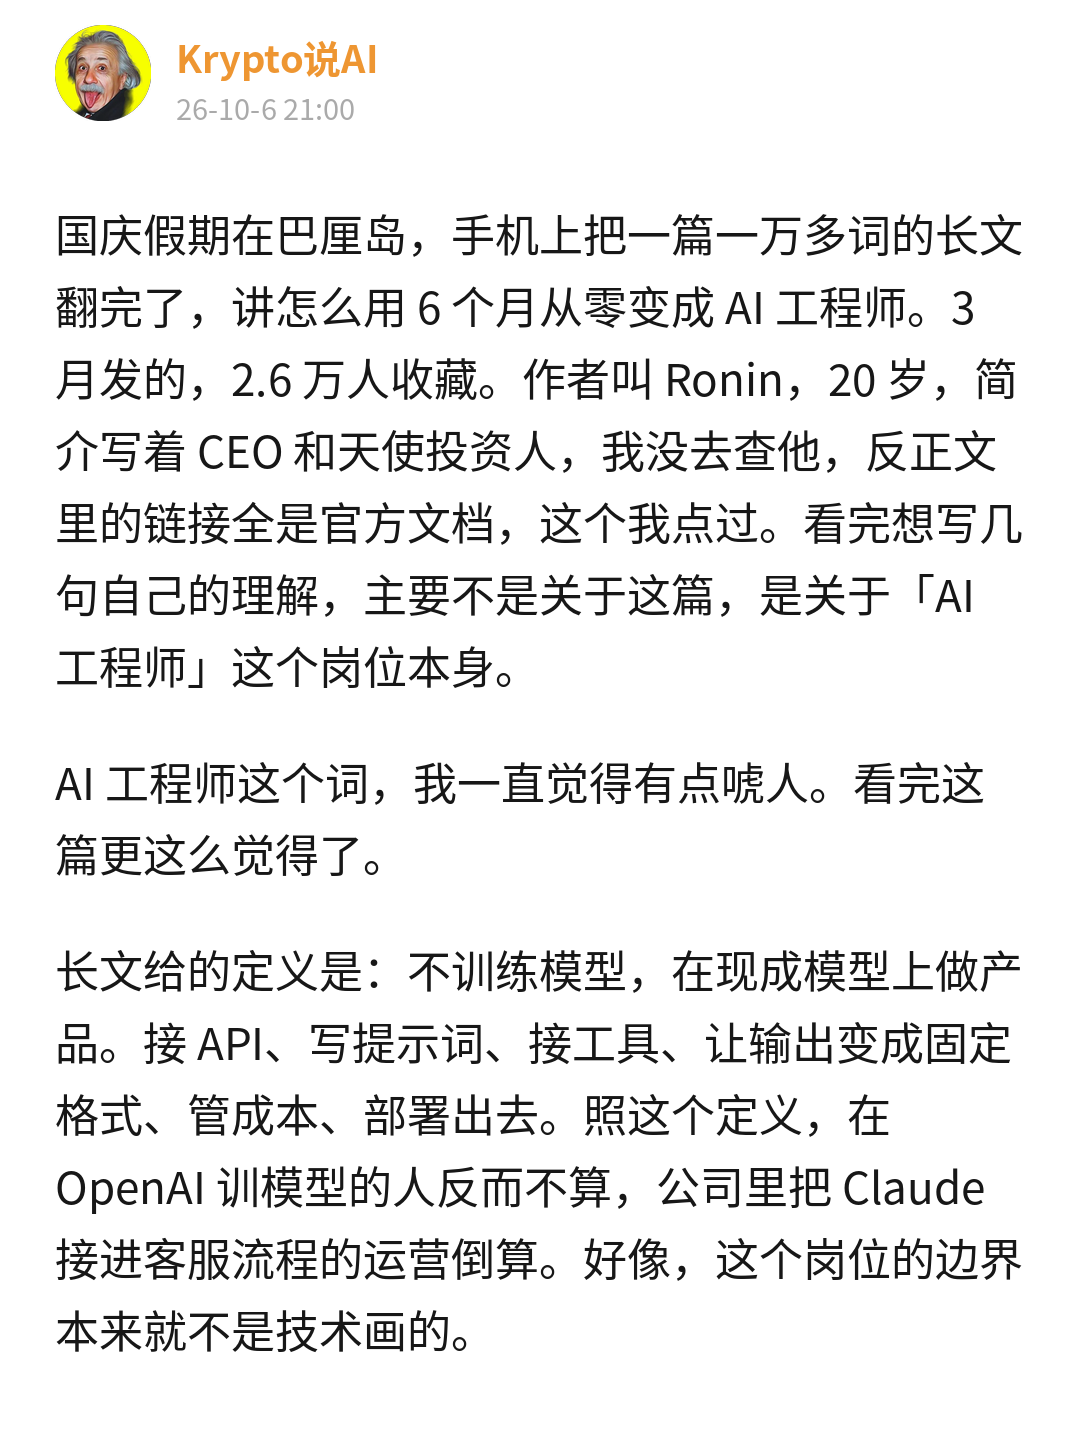
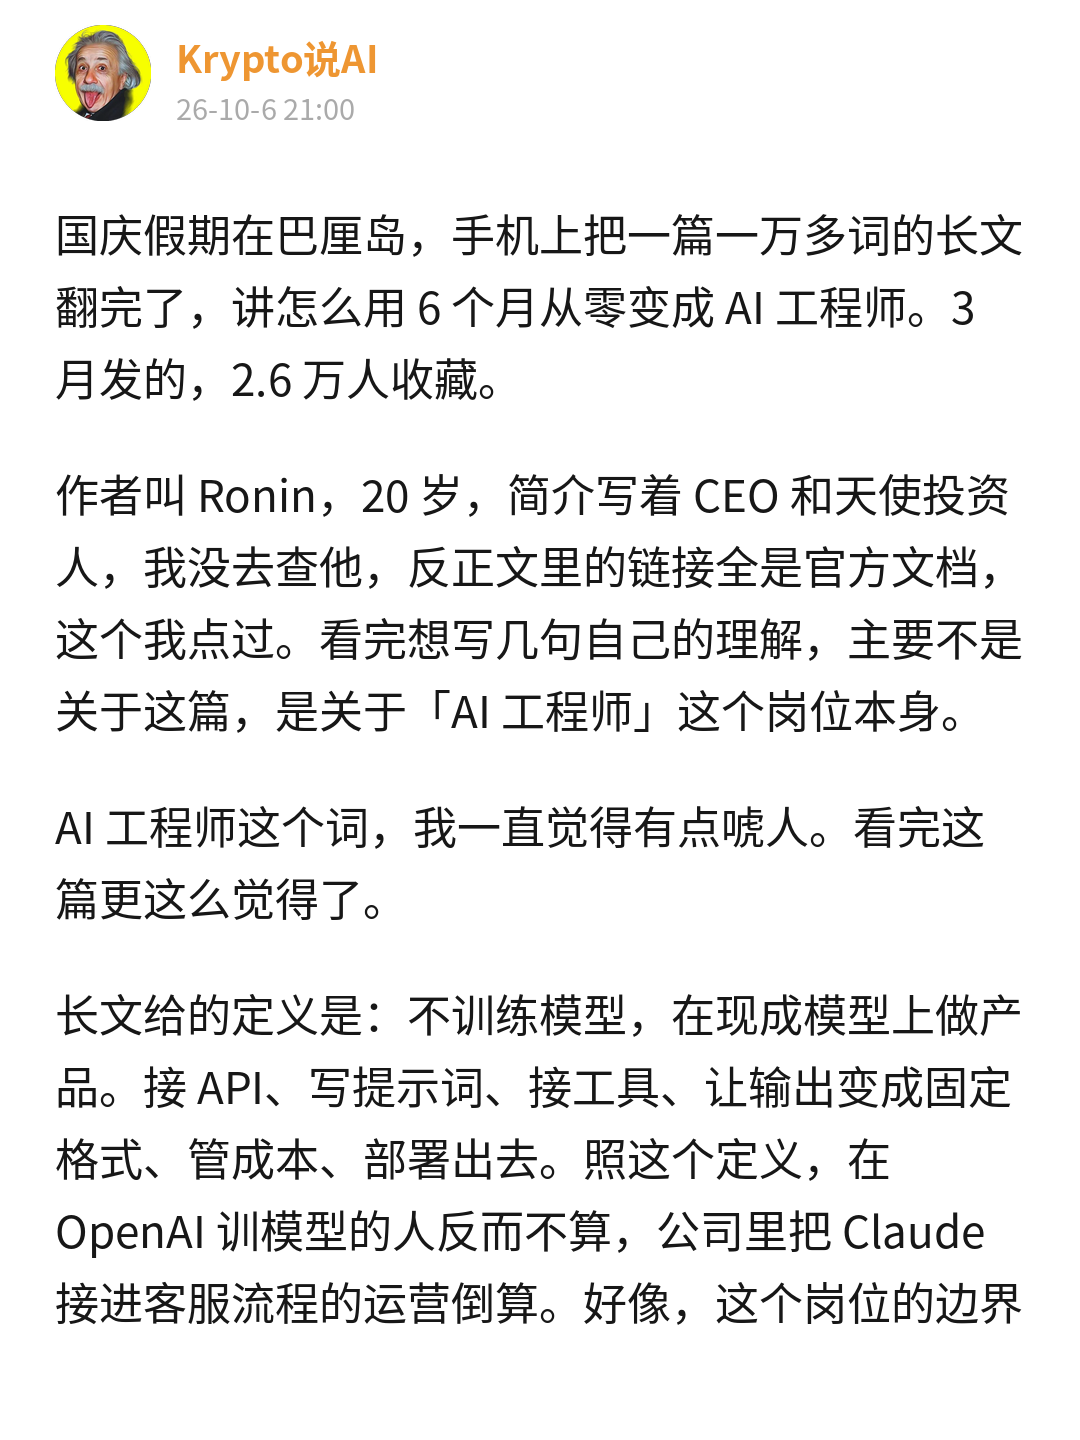
路线图稿：首段拆开
Claude-Session: https://claude.ai/code/session_014rxZDSRh87UTnpS8unQUqK

Changed region(s): [[0.0306, 0.25, 0.9472, 0.9375]]

diff --git a/发布/2026-10-04_ai-engineer-roadmap/meme版/编辑用/draft.md b/发布/2026-10-04_ai-engineer-roadmap/meme版/编辑用/draft.md
@@ -7,7 +7,9 @@ time: 26-10-6 21:00
 account: Krypto说AI
 ---
 
-国庆假期在巴厘岛，手机上把一篇一万多词的长文翻完了，讲怎么用 6 个月从零变成 AI 工程师。3 月发的，2.6 万人收藏。作者叫 Ronin，20 岁，简介写着 CEO 和天使投资人，我没去查他，反正文里的链接全是官方文档，这个我点过。看完想写几句自己的理解，主要不是关于这篇，是关于「AI 工程师」这个岗位本身。
+国庆假期在巴厘岛，手机上把一篇一万多词的长文翻完了，讲怎么用 6 个月从零变成 AI 工程师。3 月发的，2.6 万人收藏。
+
+作者叫 Ronin，20 岁，简介写着 CEO 和天使投资人，我没去查他，反正文里的链接全是官方文档，这个我点过。看完想写几句自己的理解，主要不是关于这篇，是关于「AI 工程师」这个岗位本身。
 
 AI 工程师这个词，我一直觉得有点唬人。看完这篇更这么觉得了。
 
